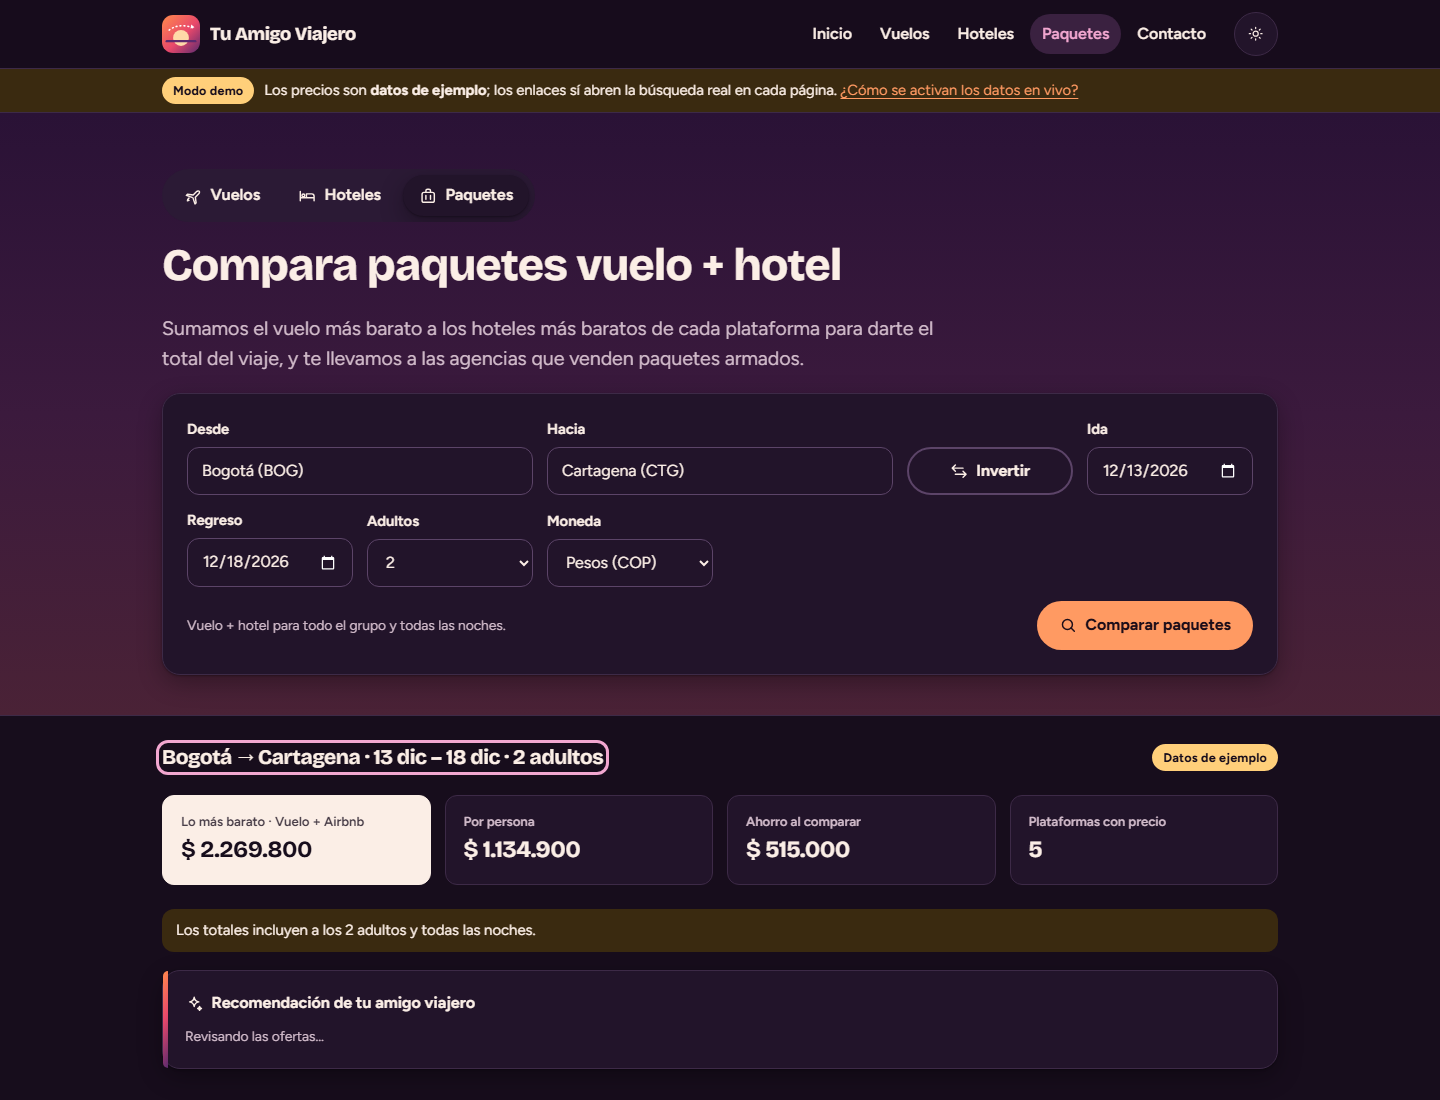
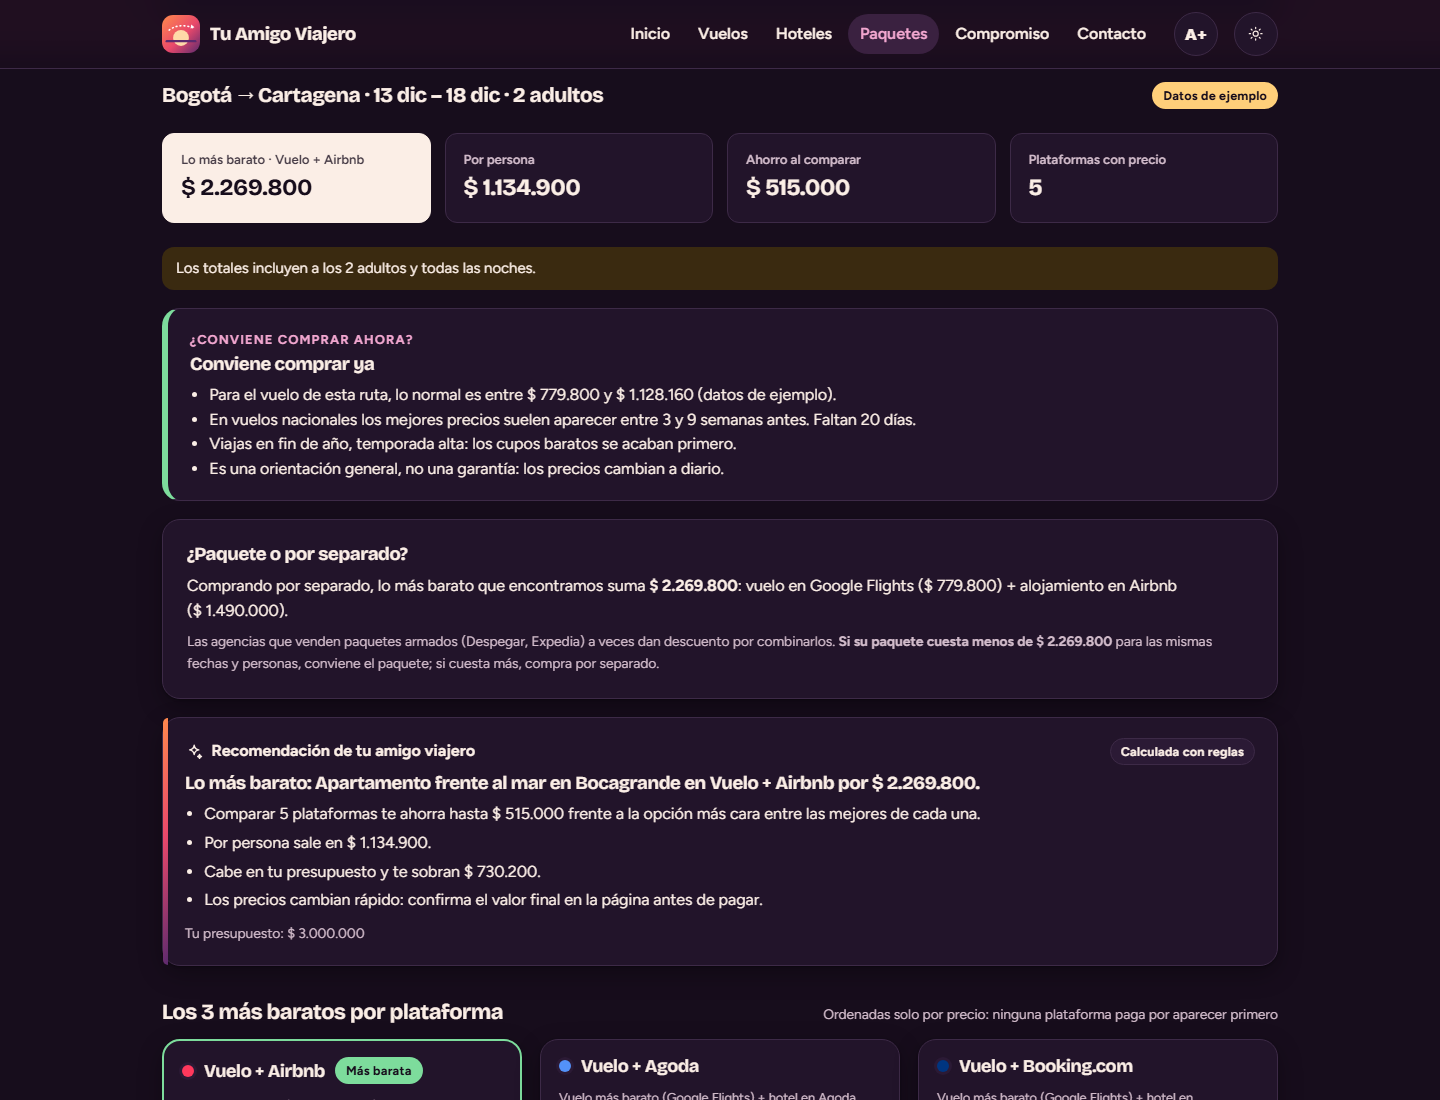
docs: compromiso con la comunidad, ADR 0006 y CHANGELOG 3.1.0

diff --git a/scripts/capturas.spec.ts b/scripts/capturas.spec.ts
@@ -11,6 +11,15 @@ function fechaEnDias(dias: number): string {
 
 const BUSQUEDA = `origen=BOG&destino=CTG&ida=${fechaEnDias(20)}&regreso=${fechaEnDias(25)}&adultos=2&moneda=COP`;
 
+/** Lleva la vista al título de resultados y le quita el foco para que la captura no muestre el anillo. */
+async function alResultado(page: Page) {
+  await page.evaluate(() => {
+    (document.activeElement as HTMLElement | null)?.blur();
+    const titulo = document.getElementById('titulo-resultados');
+    if (titulo) window.scrollTo({ top: titulo.getBoundingClientRect().top + window.scrollY - 84, behavior: 'instant' });
+  });
+}
+
 async function tema(page: Page, oscuro: boolean) {
   await page.emulateMedia({ colorScheme: oscuro ? 'dark' : 'light' });
 }
@@ -46,8 +55,7 @@ test('vuelos con vendedores (escritorio, claro)', async ({ page }) => {
   await page.goto(`/vuelos?${BUSQUEDA}`);
   await page.getByRole('button', { name: '¿Dónde lo compro más barato?' }).first().click();
   await expect(page.getByRole('list', { name: /Vendedores/ })).toBeVisible();
-  await page.locator('#titulo-resultados').scrollIntoViewIfNeeded();
-  await page.evaluate(() => window.scrollBy(0, -24));
+  await alResultado(page);
   await page.screenshot({ path: `${DOCS}vuelos.png` });
 });
 
@@ -56,9 +64,16 @@ test('paquetes (escritorio, oscuro)', async ({ page }) => {
   await tema(page, true);
   await page.goto(`/paquetes?${BUSQUEDA}&presupuesto=3000000`);
   await expect(page.getByText('Recomendación de tu amigo viajero')).toBeVisible();
-  await page.locator('#titulo-resultados').scrollIntoViewIfNeeded();
-  await page.evaluate(() => window.scrollBy(0, -24));
+  await alResultado(page);
   await page.screenshot({ path: `${DOCS}paquetes.png` });
+});
+
+test('compromiso en celular (375 px, oscuro)', async ({ page }) => {
+  await page.setViewportSize({ width: 375, height: 812 });
+  await tema(page, true);
+  await page.goto('/compromiso');
+  await expect(page.getByRole('heading', { level: 1 })).toBeVisible();
+  await page.screenshot({ path: `${DOCS}compromiso.png` });
 });
 
 test('hoteles en celular (375 px)', async ({ page }) => {
@@ -66,6 +81,6 @@ test('hoteles en celular (375 px)', async ({ page }) => {
   await tema(page, false);
   await page.goto(`/hoteles?${BUSQUEDA}`);
   await expect(page.locator('li.plataforma').first()).toBeVisible();
-  await page.locator('#titulo-resultados').scrollIntoViewIfNeeded();
+  await alResultado(page);
   await page.screenshot({ path: `${DOCS}celular.png` });
 });

diff --git a/README.md b/README.md
@@ -23,6 +23,30 @@ viaje con IA gratuita. Aquí no se paga nada: cada precio lleva a la plataforma 
 
 </div>
 
+## Nuestro compromiso
+
+Viajar no debería depender de saber buscar en diez páginas. Tu Amigo Viajero es un **servicio
+abierto para la comunidad**: cualquier persona, en Colombia o desde cualquier lugar, encuentra el
+precio justo en una sola búsqueda y entiende lo que está pagando.
+
+- **Gratis, sin registro y sin publicidad.** No pedimos datos personales ni usamos cookies de seguimiento.
+- **Ordenado solo por precio.** Ninguna plataforma paga por aparecer primero y no escondemos ninguna.
+- **Transparente.** Cada precio dice de dónde sale, cuándo se consultó, si es en vivo o de ejemplo,
+  si trae impuestos y si la maleta se paga aparte.
+- **Afiliados declarados.** Hoy ningún enlace es de afiliado. Si algún día lo es, la tarjeta lo dice
+  y la comisión no cambia el precio ni el orden.
+- **Te ayudamos a decidir, no a gastar:** si conviene comprar ya o esperar, cuánto ahorras al
+  comparar, si un paquete conviene más que comprar por separado y la tasa del día.
+- **Para todas las personas y todos los celulares:** accesibilidad WCAG 2.2 AA, letra grande y modo
+  para ahorrar datos en conexiones lentas.
+
+<img src="docs/compromiso.png" alt="Página «Por qué existe Tu Amigo Viajero» en un celular, tema oscuro, con los compromisos de gratuidad y orden por precio" width="220" align="right">
+
+La página [/compromiso](https://darwinmontiel.github.io/tu-amigo-viajero/compromiso) lo explica en
+el sitio y el [ADR 0006](docs/adr/0006-servicio-para-la-comunidad.md) cuenta cómo está implementado.
+
+<br clear="right">
+
 ## Qué es
 
 Comparar un viaje obliga a abrir cinco páginas y escribir lo mismo en cada una. Tu Amigo Viajero lo
@@ -40,7 +64,14 @@ hace en una sola búsqueda:
 - **Asistente con IA:** escribe «playa en diciembre saliendo de Medellín, 2 adultos, máximo 3
   millones». El asistente arma la búsqueda, muestra lo que entendió antes de buscar y, con los
   resultados, da una recomendación que **no puede inventar precios**.
+- **¿Conviene comprar ahora?** Una orientación clara según la anticipación, las temporadas altas de
+  Colombia y, con datos en vivo, si Google Flights ve el precio bajo, normal o alto para la ruta.
+- **Total real:** marca si el precio trae impuestos (y los suma cuando la fuente los da aparte) y
+  avisa cuando una aerolínea de bajo costo cobra la maleta aparte.
+- **¿Paquete o por separado?** Te da el total por separado como umbral para comparar paquetes armados.
+- **Tasa del día** con la equivalencia en dólares o pesos (ExchangeRate-API).
 - **Clima del destino** para tus fechas, con Open-Meteo.
+- **Letra grande y ahorro de datos**, que se activa solo en conexiones lentas.
 
 Todo es legal y gratis: APIs oficiales o de terceros que lo permiten, **sin raspar páginas**, con
 planes gratuitos protegidos con caché y cuota diaria.
@@ -149,8 +180,8 @@ VITE_API_URL=http://localhost:8787 npm run dev      # web contra la API local
 |---|---|
 | `npm run lint` | ESLint con TypeScript, React Hooks y `jsx-a11y` |
 | `npm run typecheck` | `tsc -b` de los tres paquetes, en modo estricto |
-| `npm test` | 75 pruebas unitarias con Vitest: dominio, proveedores con respuestas de muestra, API, caché, cuota, límites e IA |
-| `npm run e2e` | 15 escenarios e2e con Playwright, cada uno a 1440 y 375 px, con **axe-core** en tema claro y oscuro |
+| `npm test` | 89 pruebas unitarias con Vitest: dominio, proveedores con respuestas de muestra, API, caché, cuota, límites e IA |
+| `npm run e2e` | 19 escenarios e2e con Playwright, cada uno a 1440 y 375 px, con **axe-core** en tema claro y oscuro |
 | `npx playwright test --config scripts/capturas.config.ts` | Regenera las capturas de `docs/` |
 
 ## Claves que debes crear (todas gratis)
@@ -196,6 +227,7 @@ la página sigue funcionando: no hay cobros sorpresa.
 3. [Backend en Cloudflare Workers con Hono](docs/adr/0003-backend-en-cloudflare-workers.md)
 4. [Asistente con IA gratuita (Workers AI) y respaldo por reglas](docs/adr/0004-asistente-con-ia-gratuita.md)
 5. [Identidad visual «atardecer en vuelo» y accesibilidad AA](docs/adr/0005-identidad-visual-y-accesibilidad.md)
+6. [Un servicio público para la comunidad](docs/adr/0006-servicio-para-la-comunidad.md)
 
 ## Limitaciones conocidas
 
@@ -209,6 +241,12 @@ la página sigue funcionando: no hay cobros sorpresa.
 - Los precios de hoteles son por habitación según cada agencia; impuestos y tasas pueden variar.
 - El **modo demo** tiene datos de ejemplo para 10 rutas y 7 ciudades. Son ilustrativos, no reales.
 - La IA (Llama 3.3) puede entender mal un pedido raro: por eso muestra lo que entendió antes de buscar.
+- **¿Conviene comprar ahora?** es una orientación basada en reglas generales y, en vivo, en el
+  indicador de Google Flights. No predice precios.
+- **Equipaje:** el aviso se basa en el tipo de aerolínea. Las fuentes no siempre informan la tarifa
+  exacta de la maleta.
+- Todavía no hay alertas de precio por correo: exigirían guardar datos personales, y hoy el
+  compromiso es no pedir ninguno. Para volver a revisar, se guarda o comparte el enlace.
 
 ## Estructura
 

diff --git a/docs/adr/0006-servicio-para-la-comunidad.md b/docs/adr/0006-servicio-para-la-comunidad.md
@@ -1,0 +1,49 @@
+# ADR 0006 · Un servicio público para la comunidad
+
+- **Estado:** aceptada
+- **Fecha:** 2026-11-23
+
+## Contexto
+
+El objetivo no es solo comparar precios: es que cualquier persona sienta que la herramienta está de
+su lado. Los buscadores grandes comparan bien, pero mezclan anuncios, no dicen si un precio trae
+impuestos, no avisan que la maleta se paga aparte en las aerolíneas de bajo costo y no ayudan a
+decidir si un paquete conviene más que comprar por separado.
+
+## Decisión
+
+Principios, publicados en la página **/compromiso** y en el README:
+
+1. **Gratis, sin registro y sin publicidad.** No hay cuentas, cookies de seguimiento ni anuncios.
+   Las preferencias (tema, letra, ahorro de datos) se guardan solo en el navegador.
+2. **Neutral.** El orden es solo por precio (`ordenarGrupos`) y ninguna plataforma se esconde: si
+   una falla, su tarjeta lo dice.
+3. **Transparente.** Cada tarjeta dice de dónde sale el precio, cuándo se consultó y si es en vivo
+   o de ejemplo.
+4. **Afiliados declarados.** Si se configura `TRAVELPAYOUTS_MARKER`, el grupo lleva `afiliado: true`
+   y la tarjeta muestra «Enlace de afiliado» con su explicación. Hoy no hay marcador configurado.
+5. **Ayuda para decidir**, toda calculada con datos verificables:
+   - **Impuestos:** `incluyeImpuestos` por oferta. Google Flights y Airbnb dan totales con impuestos;
+     Booking separa `taxes_and_fees` y la API los suma.
+   - **Maleta:** `avisoEquipaje` para aerolíneas de bajo costo (Wingo, JetSMART, Viva, Spirit…).
+   - **¿Conviene comprar ahora?:** `consejoDeCompra` combina la anticipación (nacional: 3–9 semanas;
+     internacional: 2–5 meses), las temporadas altas de Colombia (fin de año, Semana Santa calculada
+     con el algoritmo de Pascua, vacaciones de mitad de año) y, en vivo, el `price_insights` de
+     Google Flights (bajo, normal o alto, con el rango típico). Dice por qué aconseja y aclara que es
+     una orientación, no una garantía.
+   - **¿Paquete o por separado?:** el total por separado más barato, como umbral para comparar con
+     los paquetes armados de Despegar o Expedia.
+   - **Tasa del día:** la equivalencia en dólares o en pesos, con su fuente (ExchangeRate-API) y la
+     advertencia de que el banco puede cobrar otra tasa.
+6. **Para todos los celulares y todas las personas:**
+   - **Letra grande** (botón A+) y textos en lenguaje sencillo.
+   - **Ahorro de datos**, que se activa solo con `Save-Data` o en conexiones 2G. No descarga
+     ilustraciones, clima, tasa ni sugerencias remotas.
+   - Las páginas secundarias se cargan aparte con `React.lazy`, y cada ruta responde 200 en GitHub Pages.
+
+## Consecuencias
+
+- La confianza se gana con hechos visibles y probados: hay e2e del compromiso, del consejo, de los
+  avisos de impuestos y maleta, del paquete contra separado, de la letra grande y del ahorro de datos.
+- Si algún día se monetiza con afiliados, la declaración ya está en el producto y en las pruebas.
+- El consejo de compra es heurístico: se presenta como orientación y nunca promete precios futuros.

diff --git a/CHANGELOG.md b/CHANGELOG.md
@@ -2,6 +2,31 @@
 
 Formato basado en [Keep a Changelog](https://keepachangelog.com/es-ES/1.1.0/).
 
+## [3.1.0] - 2026-11-23
+
+Tu Amigo Viajero como **servicio para la comunidad**: gratis, neutral, transparente y pensado para
+cualquier persona y cualquier celular.
+
+### Agregado
+
+- Página **Nuestro compromiso** (`/compromiso`) y sección en el Inicio y en el README: sin
+  registro, sin publicidad, orden solo por precio y afiliados declarados.
+- **¿Conviene comprar ahora?**: consejo según la anticipación, las temporadas altas de Colombia
+  (fin de año, Semana Santa calculada, mitad de año) y el `price_insights` de Google Flights en vivo.
+- **Total real**: marca «Impuestos incluidos», suma los impuestos de Booking cuando vienen aparte y
+  avisa cuando una aerolínea de bajo costo cobra la maleta aparte.
+- **¿Paquete o por separado?** en Paquetes, con el umbral para comparar paquetes armados.
+- **Tasa del día** con la equivalencia en dólares o pesos.
+- Etiqueta **«Enlace de afiliado»** cuando se configura el marcador de Travelpayouts.
+- **Letra grande** (botón A+) y **ahorro de datos**, que se activa solo con Save-Data o en 2G.
+- ADR 0006. Pruebas: 89 unitarias y 19 escenarios e2e.
+
+### Cambiado
+
+- Las páginas secundarias se cargan aparte con `React.lazy`; la ruta `/compromiso` responde 200 en
+  GitHub Pages.
+- Encabezado más compacto en celulares de 375 px o menos.
+
 ## [3.0.0] - 2026-11-23
 
 Reconstrucción completa: de agencia ficticia con enlaces a **comparador real de precios** de vuelos,

diff --git a/AVISOS.md b/AVISOS.md
@@ -51,6 +51,7 @@ Contacto y en el pie del sitio.
 |---|---|---|
 | [SerpApi](https://serpapi.com/) | Resultados públicos de Google Flights, Google Hotels, Booking.com y Airbnb | Plan gratuito con clave del dueño del despliegue |
 | [Travelpayouts](https://www.travelpayouts.com/) · Aviasales Data API | Precios en caché y ofertas | Gratis para afiliados; enlaces con el marcador de afiliado opcional |
+| [ExchangeRate-API](https://www.exchangerate-api.com) (open.er-api.com) | Tasa del día | Gratis y sin clave, con atribución |
 | Travelpayouts · autocompletado | Sugerencias de ciudades y aeropuertos | Público, sin clave |
 | [Open-Meteo](https://open-meteo.com/) | Pronóstico y geocodificación | Gratis para uso no comercial, [CC BY 4.0](https://creativecommons.org/licenses/by/4.0/) |
 | [Cloudflare Workers AI](https://developers.cloudflare.com/workers-ai/) · Llama 3.3 70B | Asistente | Plan Free (10 000 neuronas al día); modelo bajo la licencia comunitaria de Llama 3.3 |
